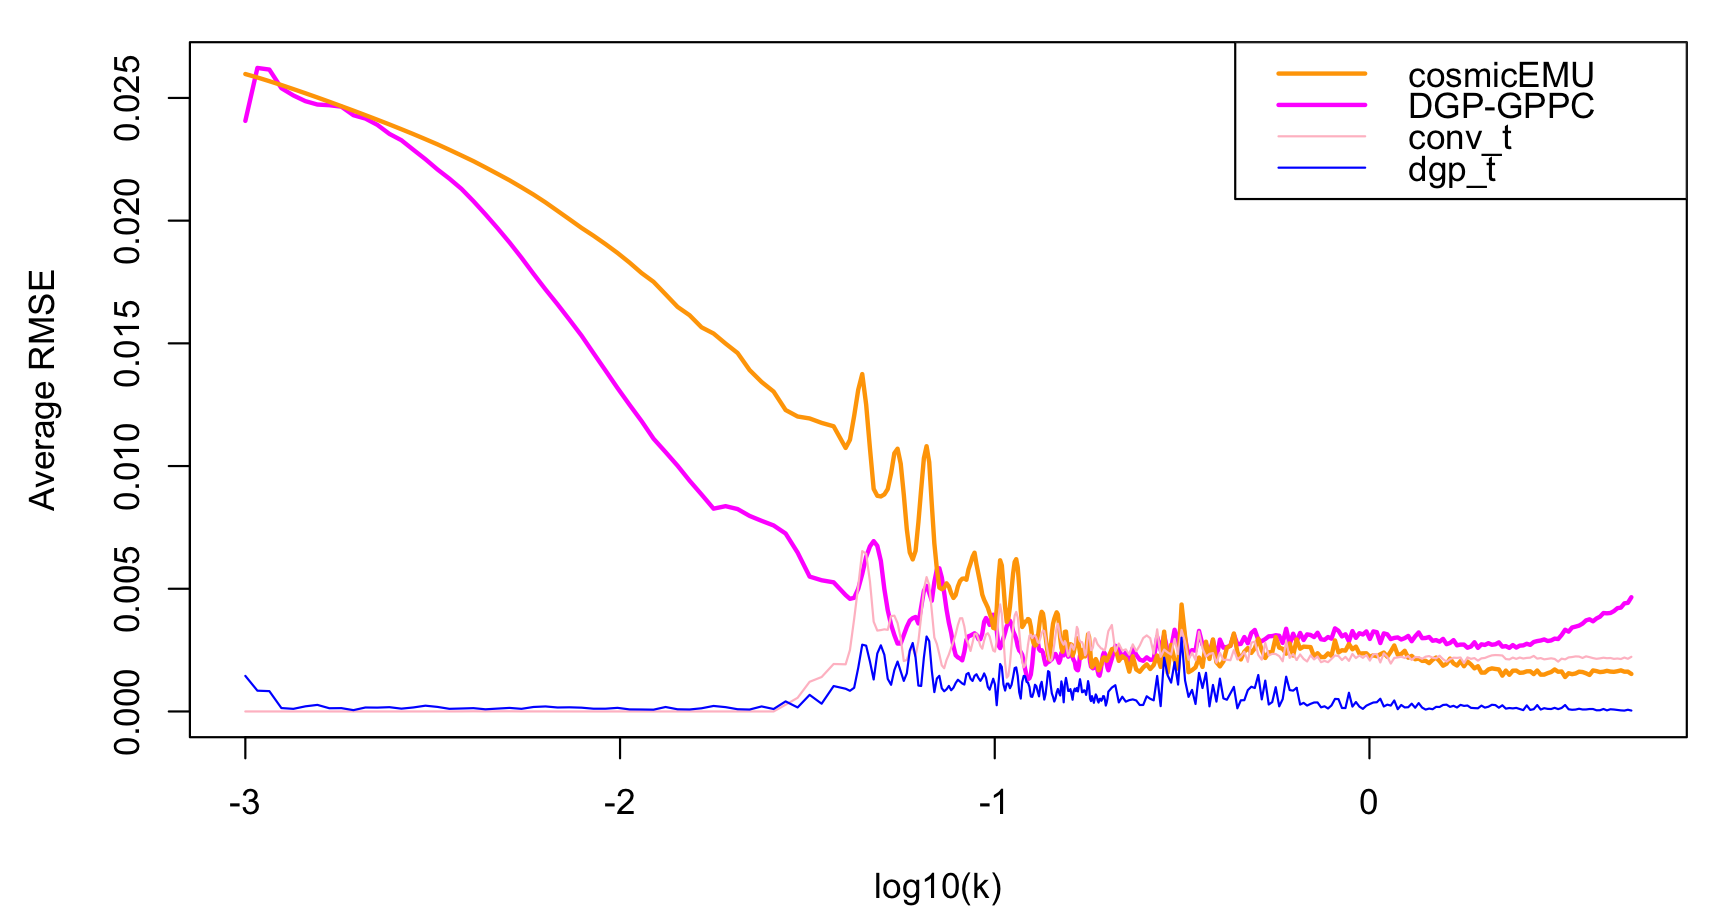
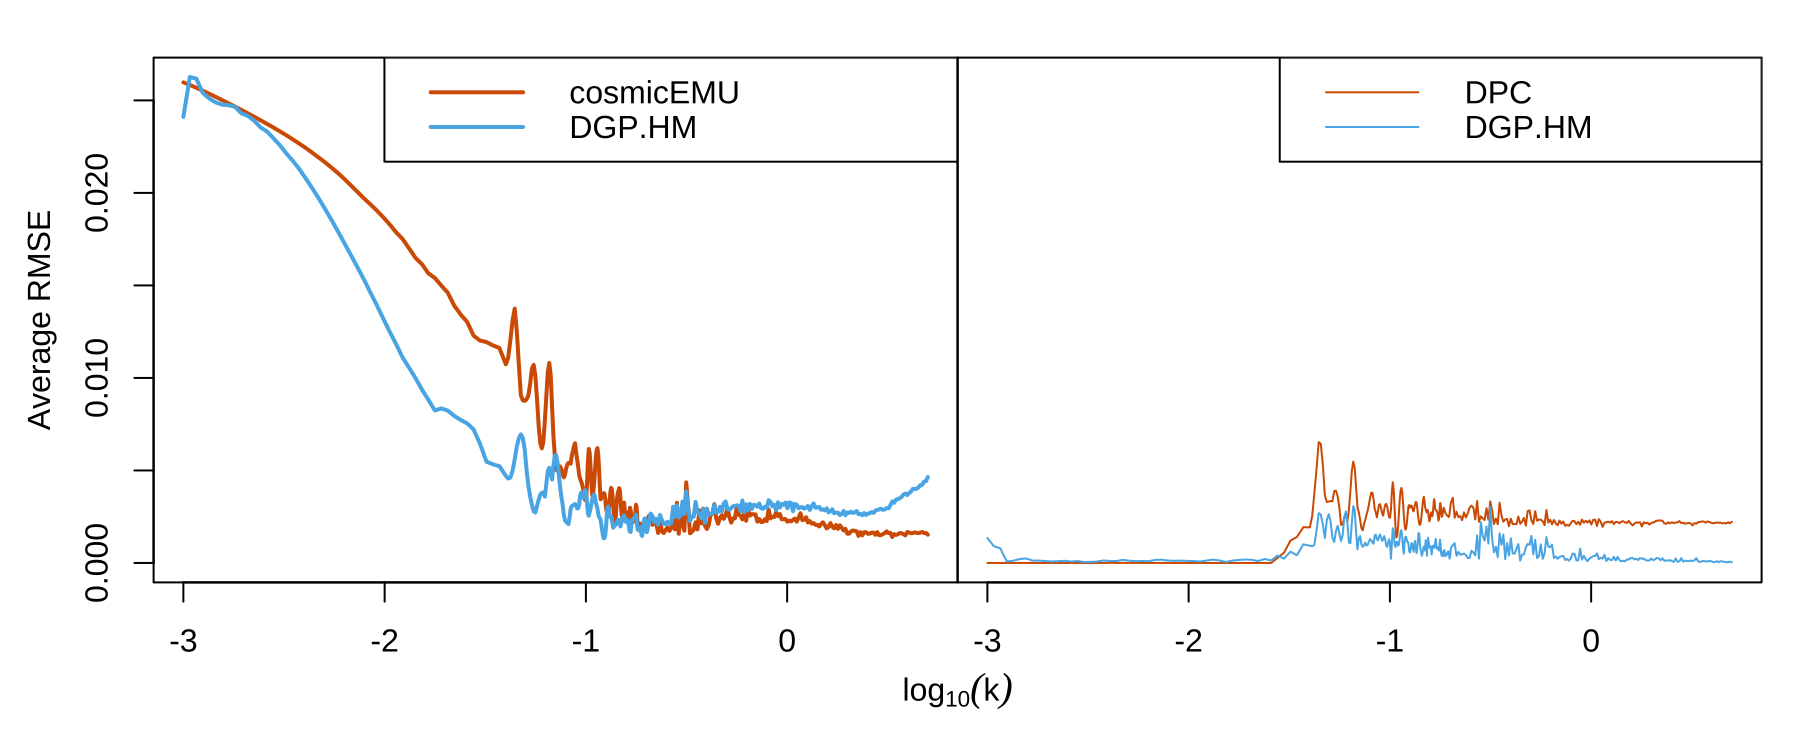
use color-blind palette; update images

diff --git a/paper/main.tex b/paper/main.tex
@@ -34,7 +34,9 @@
         Math and Technology, Elms College, {\tt walshst@elms.edu}} \and 
         Annie S. Booth\thanks{Department of Statistics, North Carolina State University} \and
         David Higdon\thanks{Department of Statistics, Virginia Tech} \and
-        Marco A.R. Ferreira\footnotemark[3]}
+        Marco A.R. Ferreira\footnotemark[3] \and
+        Kelly Moran\thanks{Los Alamos National Laboratory} \and
+        Katrin Heitmann\thanks{Argonne National Laboratory}}
 \date{\today}
 
 
@@ -72,7 +74,7 @@ These spectra are represented as a function of wavenumber $k$, and hence is deno
 \begin{figure}[ht]
     \centering
     \includegraphics[width=6in]{plot_data.png}
-    \caption{The perturbation theory, low resolution runs, and high resolution run for the first training cosmology. The weighted average is also shown as a dashed line. Dotted lines at the bottom indicate where each data type is deemed approximately unbiased.}
+    \caption{Left: The perturbation theory, low resolution runs, and high resolution run for the first training cosmology. The weighted average is also shown as a dashed line. Dotted lines at the bottom indicate where each data type is deemed approximately unbiased. Right: The same image, but only where the low resolution runs are approximately unbiased.}
     \label{fig:plot_data}
 \end{figure}
 
@@ -152,6 +154,11 @@ Here, we provide results from a simulation study comparing the GP and DGP models
     \label{fig:collect_sims}
 \end{figure}
 
+\subsection{CAMB Data}
+\label{subsec:camb}
+
+Here, we look over the CAMB data to see how our method performs.
+
 \subsection{Estimating Spectra with Mira-Titan Data}
 \label{subsec:mira_fit}
 
@@ -197,7 +204,7 @@ In addition to predicting for held-out cosmologies, we can also predict over a l
 \begin{figure}[ht]
     \centering
     \includegraphics[width=6in]{rmse_by_k.png}
-    \caption{Average RMSE of each method across all $k$ values.}
+    \caption{Left: Average RMSE of each prediction method across all $k$ values. Right: Average RMSE for each method when using the held-out computer model runs to train the model. In each case, the truth is assumed to be the weighted average of the computer model runs.}
     \label{fig:plot_rmse_k}
 \end{figure}
 
@@ -217,6 +224,13 @@ Brief recap, directions for future research: BSS-ANOVA in lieu of DGPs, hydrodyn
 \label{sec:apdx}
 
 The different appendices from dissertation as necessary. Can also put details of dataset in supplementary material.
+
+\begin{figure}[ht]
+    \centering
+    \includegraphics[width=6in]{pred_1to6.png}
+    \caption{Results of all six predictions for both methods on the held-out cosmologies (weighted average subtracted). CosmicEMU is dashed, DGP.HM is dotted, and solid gray lines show results of held-out computer model runs.}
+    \label{fig:plot_pred_1to6}
+\end{figure}
 
 \bibliographystyle{jasa}
 \bibliography{references}
